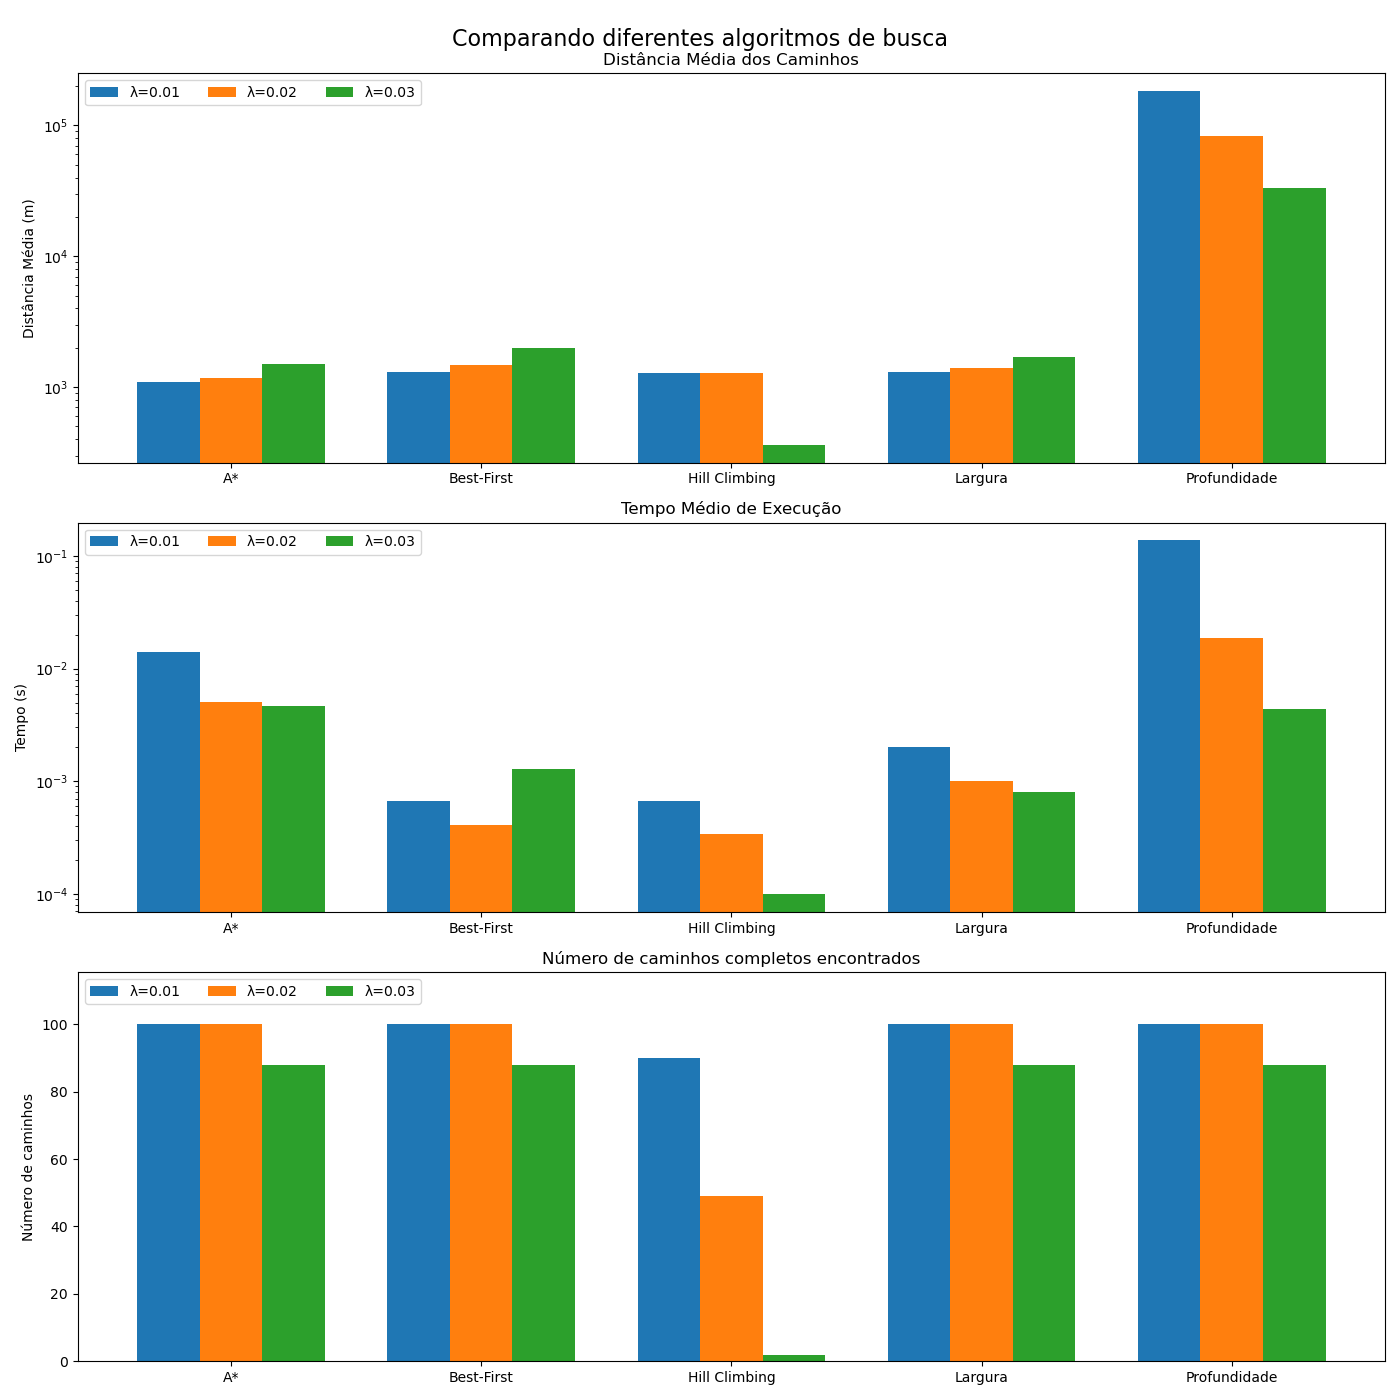
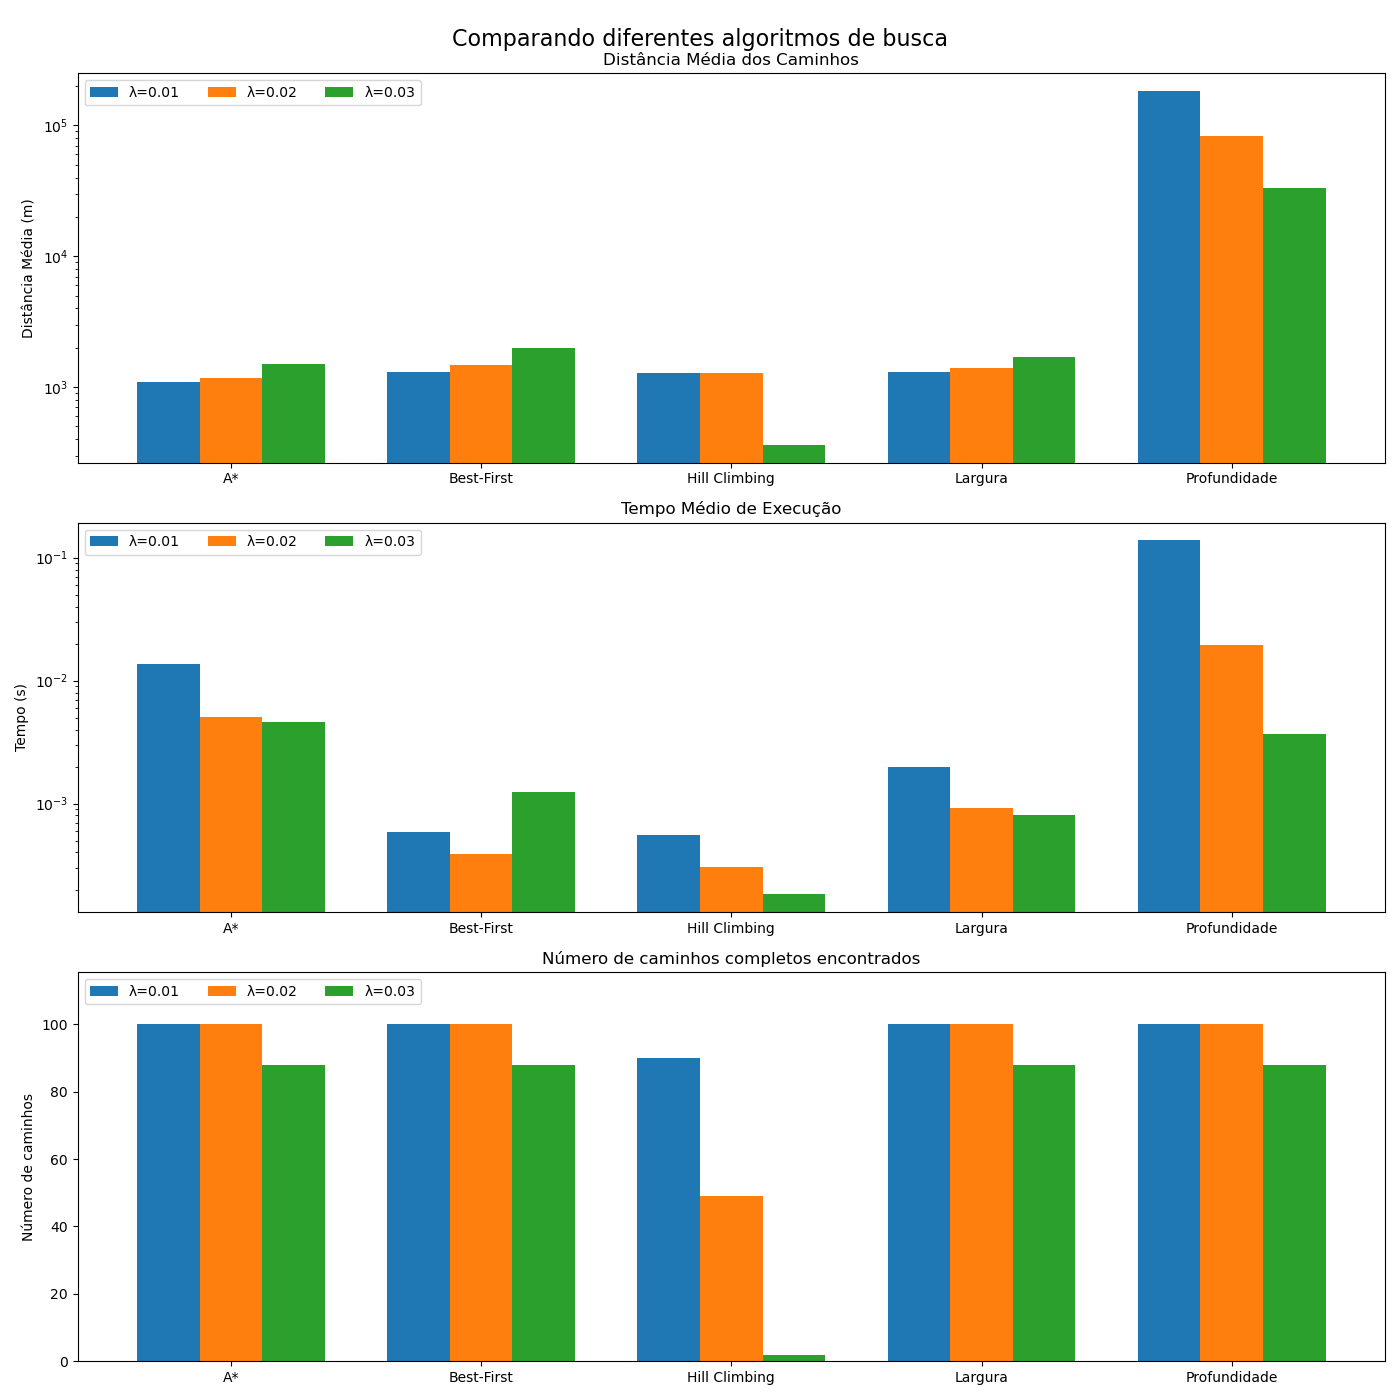
ultimos detalhes e comentarios

diff --git a/main.py b/main.py
@@ -102,6 +102,7 @@ def experimento_2(grafos, pares_vertices):
     x = np.arange(len(nomes_algoritmos))
     largura = 0.25
     
+    # Gráfico de distância média
     for i, label in enumerate(['λ=0.01', 'λ=0.02', 'λ=0.03']):
         axes[0].bar(x + i * largura, [resultados_distancia[nome][i] for nome in nomes_algoritmos], width=largura, label=label)
 
@@ -140,15 +141,18 @@ def experimento_2(grafos, pares_vertices):
     fig.savefig(fname="./resultados/experimento_2/metricas.png")
 
 def experimento_3(grafos, pares_vertices):
+    # Função distância para computar g(n)
     dist_func = lambda grafo, a, b: grafo[a][b]['weight']
 
     funcs = [a_estrela, dijkstra]
     nomes_algoritmos = ["A*", "Dijkstra"]
 
+    # Resultados dos algoritmos
     resultados_distancia = {nome: [] for nome in nomes_algoritmos}
     resultados_tempo = {nome: [] for nome in nomes_algoritmos}
     resultados_explorados = {nome: [] for nome in nomes_algoritmos}
 
+    # Avaliar algoritmos
     for grafo in grafos:
         for func, nome in zip(funcs, nomes_algoritmos):
             distancias = []
@@ -176,6 +180,7 @@ def experimento_3(grafos, pares_vertices):
     x = np.arange(len(nomes_algoritmos))
     largura = 0.25
 
+    # Plot das métricas de avaliação
     def metric_plot(ax, data, title, ylabel):
         for i, label in enumerate(['λ=0.01', 'λ=0.02', 'λ=0.03']):
             ax.bar(x + i * largura, [data[nome][i] for nome in nomes_algoritmos], width=largura, label=label)
@@ -194,10 +199,13 @@ def experimento_3(grafos, pares_vertices):
     os.makedirs("./resultados/experimento_3", exist_ok=True)
     fig.savefig(fname="./resultados/experimento_3/comparacao.png")
 
-    # Visualização de um dos caminhos gerados pelo dijkstra e A*
+    # Visualização do espaço de busca usado peloa algoritmos Dijkstra e A*
     path_fig, path_axes = plt.subplots(2, 1, figsize=(10, 14))
 
     def path_plot(ax, grafo, arestas, title, cores):
+        # Plota nos inicio e fim maiores em vermelho
+        # Nós explorados recebem uma cor do colormap
+        # Nós não explorados são rosa
         pos = nx.get_node_attributes(grafo, 'pos')
         nx.draw_networkx_nodes(grafo, pos, node_color="#fc03df", node_size=100, ax=ax)
         nx.draw_networkx(grafo, pos, node_size=150, node_color=cores, cmap=cm.viridis, ax=ax, with_labels=False)
@@ -209,6 +217,7 @@ def experimento_3(grafos, pares_vertices):
     inicio = 99
     fim = 5
 
+    # Encontra caminho, gera uma lista de arestas no caminho
     caminho_a, dists_a = a_estrela(grafo_vis, inicio, fim, heuristica_custom, dist_func, return_dists=True)
     arestas_a = list(zip(caminho_a[:-1], caminho_a[1:]))
     cores_a = [dists_a[key] for key in sorted(dists_a.keys())]

diff --git a/algoritmos/dijkstra.py b/algoritmos/dijkstra.py
@@ -1,28 +1,38 @@
 import numpy as np
 from heapq import heappop, heappush
 
+# Recebe heuristica, mas não usa, a função é definida assim apenas para poder padronizar a avaliação nos experimentos
 def dijkstra(grafo, inicio, fim, heuristica, dist_func, return_dists=False):
+    # Inicializa as distâncias para cada nó como infinito e o predecessor como -1
+    # Faz isso pois o algoritmo vai "relaxando as distâncias"
     dists = { no:np.inf for no in grafo.nodes}
     predecessor = { no:-1 for no in grafo.nodes}
     dists[inicio] = 0
 
+    # Cria a fila de prioridade e insere o nó inicial
     fila_prioridade = []
     heappush(fila_prioridade, (0, inicio))
 
     while fila_prioridade:
+        # Extrai o nó com o menor custo
         _, atual = heappop(fila_prioridade)
 
+        # Verifica se chegou ao nó final
         if atual == fim:
             break
-
+        
+        # Explora os vizinhos do nó atual
         for vizinho in grafo.neighbors(atual):
+            # Calcula a nova distância para o vizinho
             dist_g = dists[atual] + dist_func(grafo, atual, vizinho)
             
+            # Se a nova distância for menor, atualiza as estruturas de dados
             if dist_g < dists[vizinho]:
                 predecessor[vizinho] = atual
                 dists[vizinho] = dist_g
                 heappush(fila_prioridade, (dist_g, vizinho))
 
+    # Verifica se encontrou um caminho
     if(predecessor[fim] == -1):
         if return_dists:
             return None, dists

diff --git a/algoritmos/hill_climbing.py b/algoritmos/hill_climbing.py
@@ -1,18 +1,30 @@
+# Recebe dist_func, mas não usa, a função é definida assim apenas para poder padronizar a avaliação nos experimentos
 def hill_climbing(grafo, inicio, fim, heuristica, dist_func):
+    # Inicializa o nó atual com o nó de início.
     atual = inicio
+    # Inicializa o caminho com o nó de início.
     caminho = []
     caminho.append(inicio)
 
     while True:
+        # Se chegou ao destino retorna caminho
+        if atual == fim:
+            return caminho
+
         vizinhos = list(grafo.neighbors(atual))
         
-        if len(vizinhos)==0:
-            return caminho
-        
+        # Verifica se o nó atual não possui vizinhos (beco sem saida)
+        if len(vizinhos) == 0:
+            return None
+
+        # Seleciona o vizinho com o menor valor heurístico em relação ao destino.
         melhor_vizinho = min(vizinhos, key=lambda x: heuristica(grafo, x, fim))
         
+        # Verifica se o valor heurístico do melhor vizinho não é melhor do que o do nó atual.
+        # Isso significa que não há como avançar para um nó que "aproxime mais" do destino.
         if heuristica(grafo, melhor_vizinho, fim) >= heuristica(grafo, atual, fim):
-            return caminho
+            return None
         
-        atual = melhor_vizinho 
-        caminho.append(atual)
+        # Adiciona o melhor vizinho ao caminho.
+        caminho.append(melhor_vizinho)
+        atual = melhor_vizinho

diff --git a/algoritmos/profundidade.py b/algoritmos/profundidade.py
@@ -1,18 +1,27 @@
+# Recebe dist_func e heuristica, mas não usa, a função é definida assim apenas para poder padronizar a avaliação nos experimentos
 def busca_profundidade(grafo, inicio, fim, heuristica, dist_func):
+    # Inicializa a pilha com a tupla (nó inicial, caminho percorrido até agora).
     pilha = [(inicio, [inicio])]
+    # Cria um conjunto para manter o registro dos nós já processados.
     processados = set()
 
     while pilha:
+        # Retira o último elemento da pilha (comportamento LIFO).
         atual, caminho = pilha.pop()
 
+        # Verifica se o nó atual é o destino procurado.
         if atual == fim:
-            return caminho
-        
+            return caminho 
+
+        # Evita reprocessamento de nós
         if atual not in processados:
             processados.add(atual)
 
+            # Itera sobre os vizinhos do nó atual.
             for vizinho in grafo.neighbors(atual):
                 if vizinho not in processados:
+                    # Adiciona o vizinho à pilha com o caminho atualizado.
                     pilha.append((vizinho, caminho + [vizinho]))
 
+    # Retorna None caso não encontre um caminho até o destino.
     return None

diff --git a/geracao/geracao_custom.py b/geracao/geracao_custom.py
@@ -9,15 +9,16 @@ def gera_grafo(n, l):
     vertices = np.random.rand(n, 2) * n
     grafo.add_nodes_from([(i, {'pos': vert}) for i, vert in enumerate(vertices)])
 
-    # Adiciona arestas com base na probabilidade p
+    # Adiciona arestas
     for i in range(n):
         for j in range(i + 1, n):  # Evita repetir pares e autoconexões
             distancia = np.linalg.norm(grafo.nodes[i]['pos'] - grafo.nodes[j]['pos'])  # Distância geométrica entre i e j
 
-            # Calcula a probabilidade P(i -> j)
+            # Calcula a probabilidade p = e^(-λsij)
+            # sij - distância do nó i ao nó j
             p = np.exp(-l * distancia)
 
-            # Adiciona a aresta com probabilidade p
+            # Adiciona aresta com base na probabilidade p
             if np.random.rand() < p:
                 grafo.add_edge(i, j, weight=distancia)
     

diff --git a/algoritmos/best_first.py b/algoritmos/best_first.py
@@ -1,5 +1,6 @@
 from heapq import heappop, heappush
 
+# Recebe dist_func, mas não usa, a função é definida assim apenas para poder padronizar a avaliação nos experimentos
 def best_first(grafo, inicio, fim, heuristica, dist_func):
     # Fila de prioridade para armazenar (f(n) = h(n), nó head, caminho percorrido)
     # Heap Queue do Python é min_heap por padrão, ótimo pois buscamos sempre a menor f(n)

diff --git a/algoritmos/largura.py b/algoritmos/largura.py
@@ -1,3 +1,4 @@
+# Recebe dist_func e heuristica, mas não usa, a função é definida assim apenas para poder padronizar a avaliação nos experimentos
 def busca_largura(grafo, inicio, fim, heuristica, dist_func):
     # Lista que atua como fila, a agenda do algoritmo, armazenando o nó atual e o próprio caminho
     fila = [(inicio, [inicio])]  # Cada item: (nó atual, comprimento do caminho, caminho)

diff --git a/geracao/geracacao_osm.py b/geracao/geracacao_osm.py
@@ -1,5 +1,6 @@
 import osmnx as ox
 
+# Usa a biblioteca de grafos do OpenStreetMap para gerar um grafo que representa a região perto da saída da matemática
 def gera_grafo(dist=500):
     endereco = "R. Salomão Dibbo, 151"
     grafo = ox.graph.graph_from_address(endereco, dist=dist, network_type="walk")
